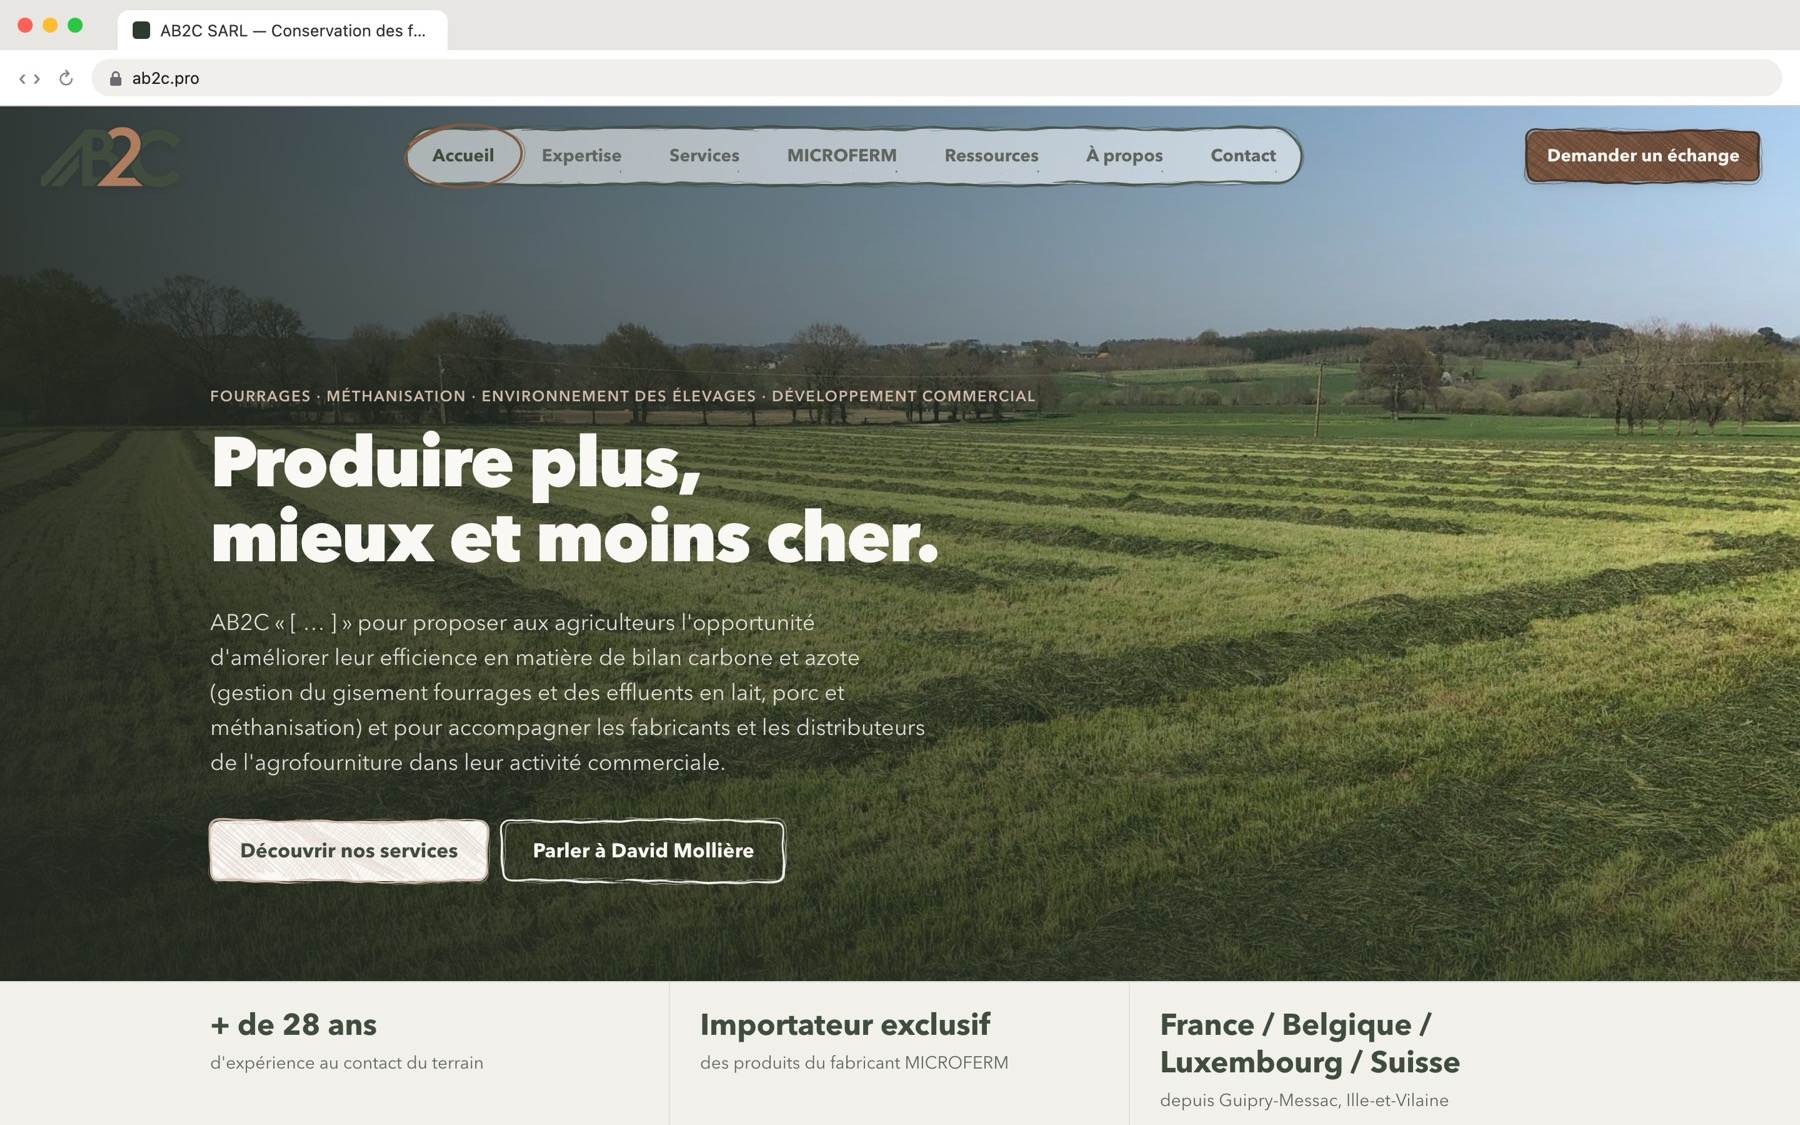
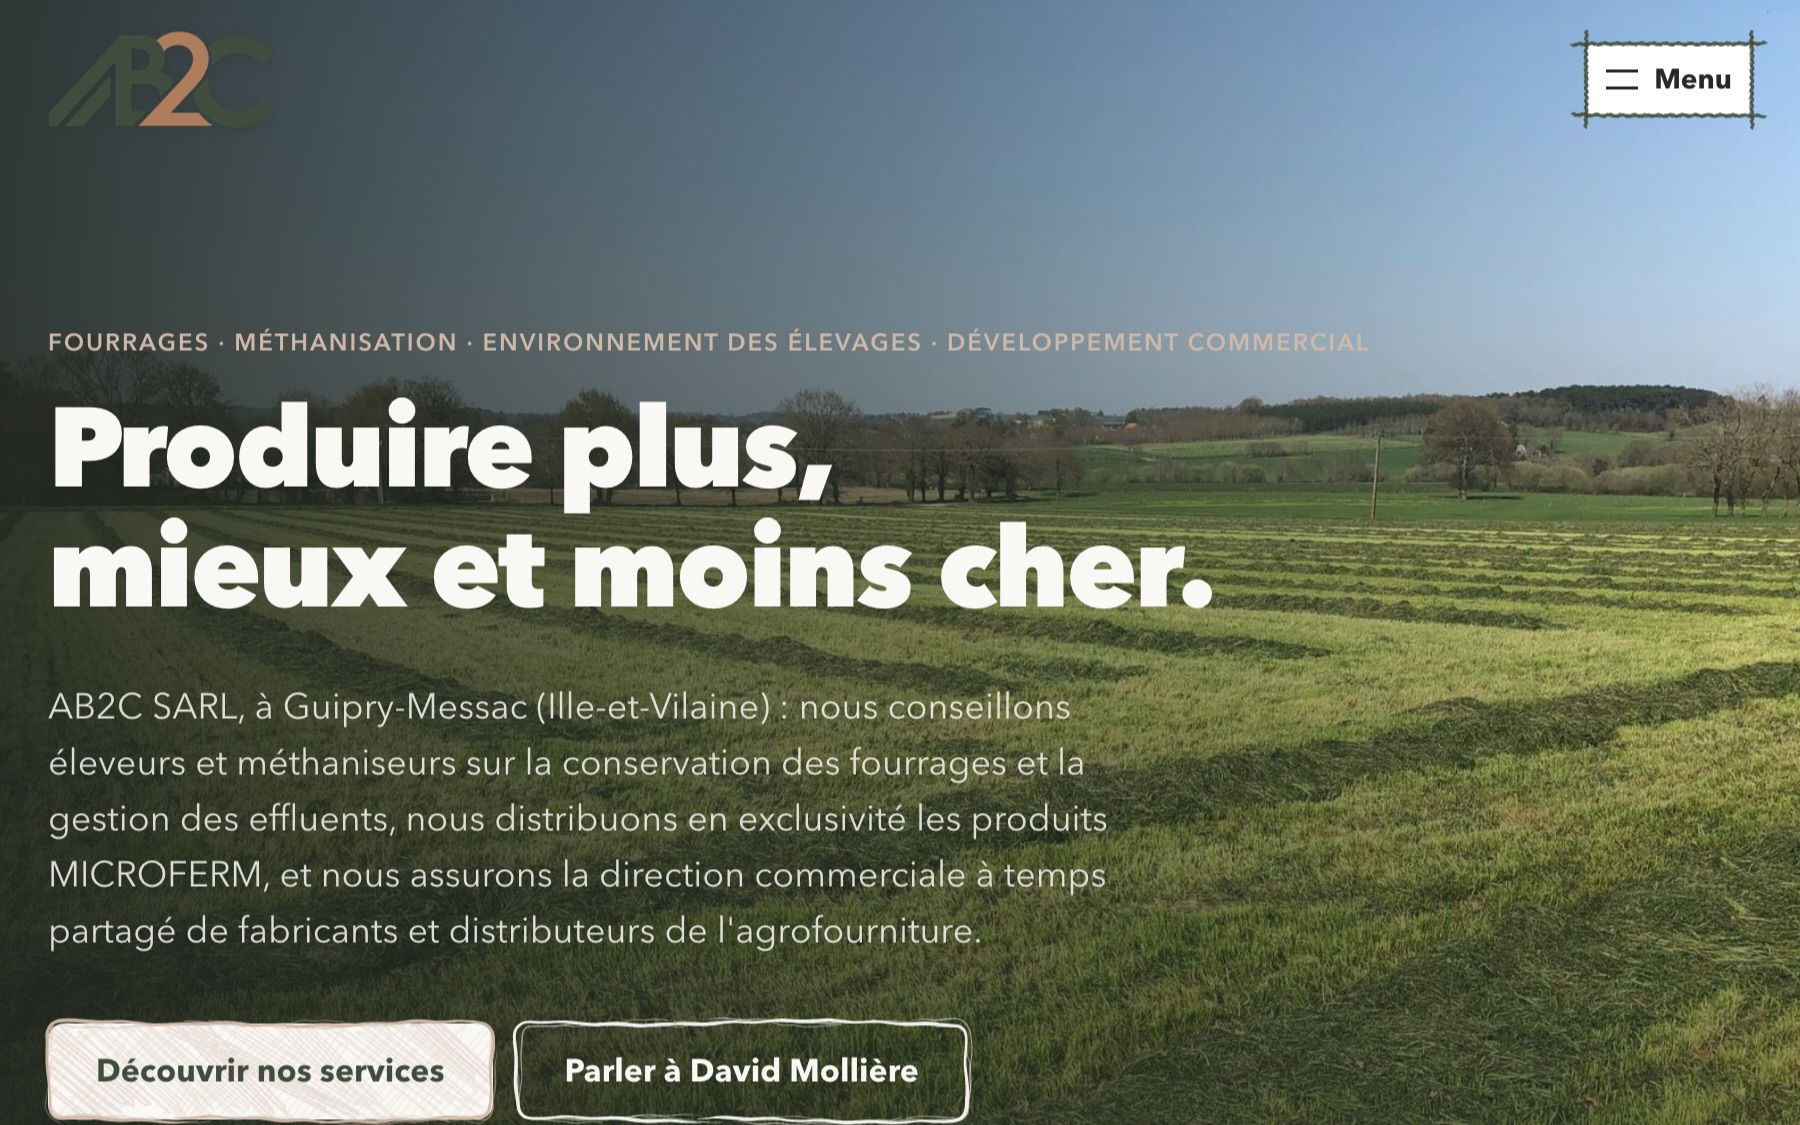
AB2C case study: ab2c.pro link, back office and SMS docs copy, fresh screenshots

diff --git a/src/site/data.ts b/src/site/data.ts
@@ -143,9 +143,10 @@ const base: Base[] = [
 		name: "AB2C",
 		kind: "Freelance",
 		accent: "#8a9a5b",
-		stack: ["TanStack Start", "React 19", "Tailwind v4", "Payload 3", "PostgreSQL", "Turborepo", "Coolify"],
+		stack: ["TanStack Start", "React 19", "Tailwind v4", "Payload 3", "PostgreSQL", "Zod", "Resend", "Brevo SMS", "PostHog", "Turborepo", "Coolify"],
 		cover: shot("ab2c-home"),
-		gallery: [shot("ab2c-services"), shot("ab2c-microferm")],
+		gallery: [shot("ab2c-produits"), shot("ab2c-documentation"), shot("ab2c-contact")],
+		link: "https://www.ab2c.pro",
 	},
 	{
 		slug: "fournelles",
